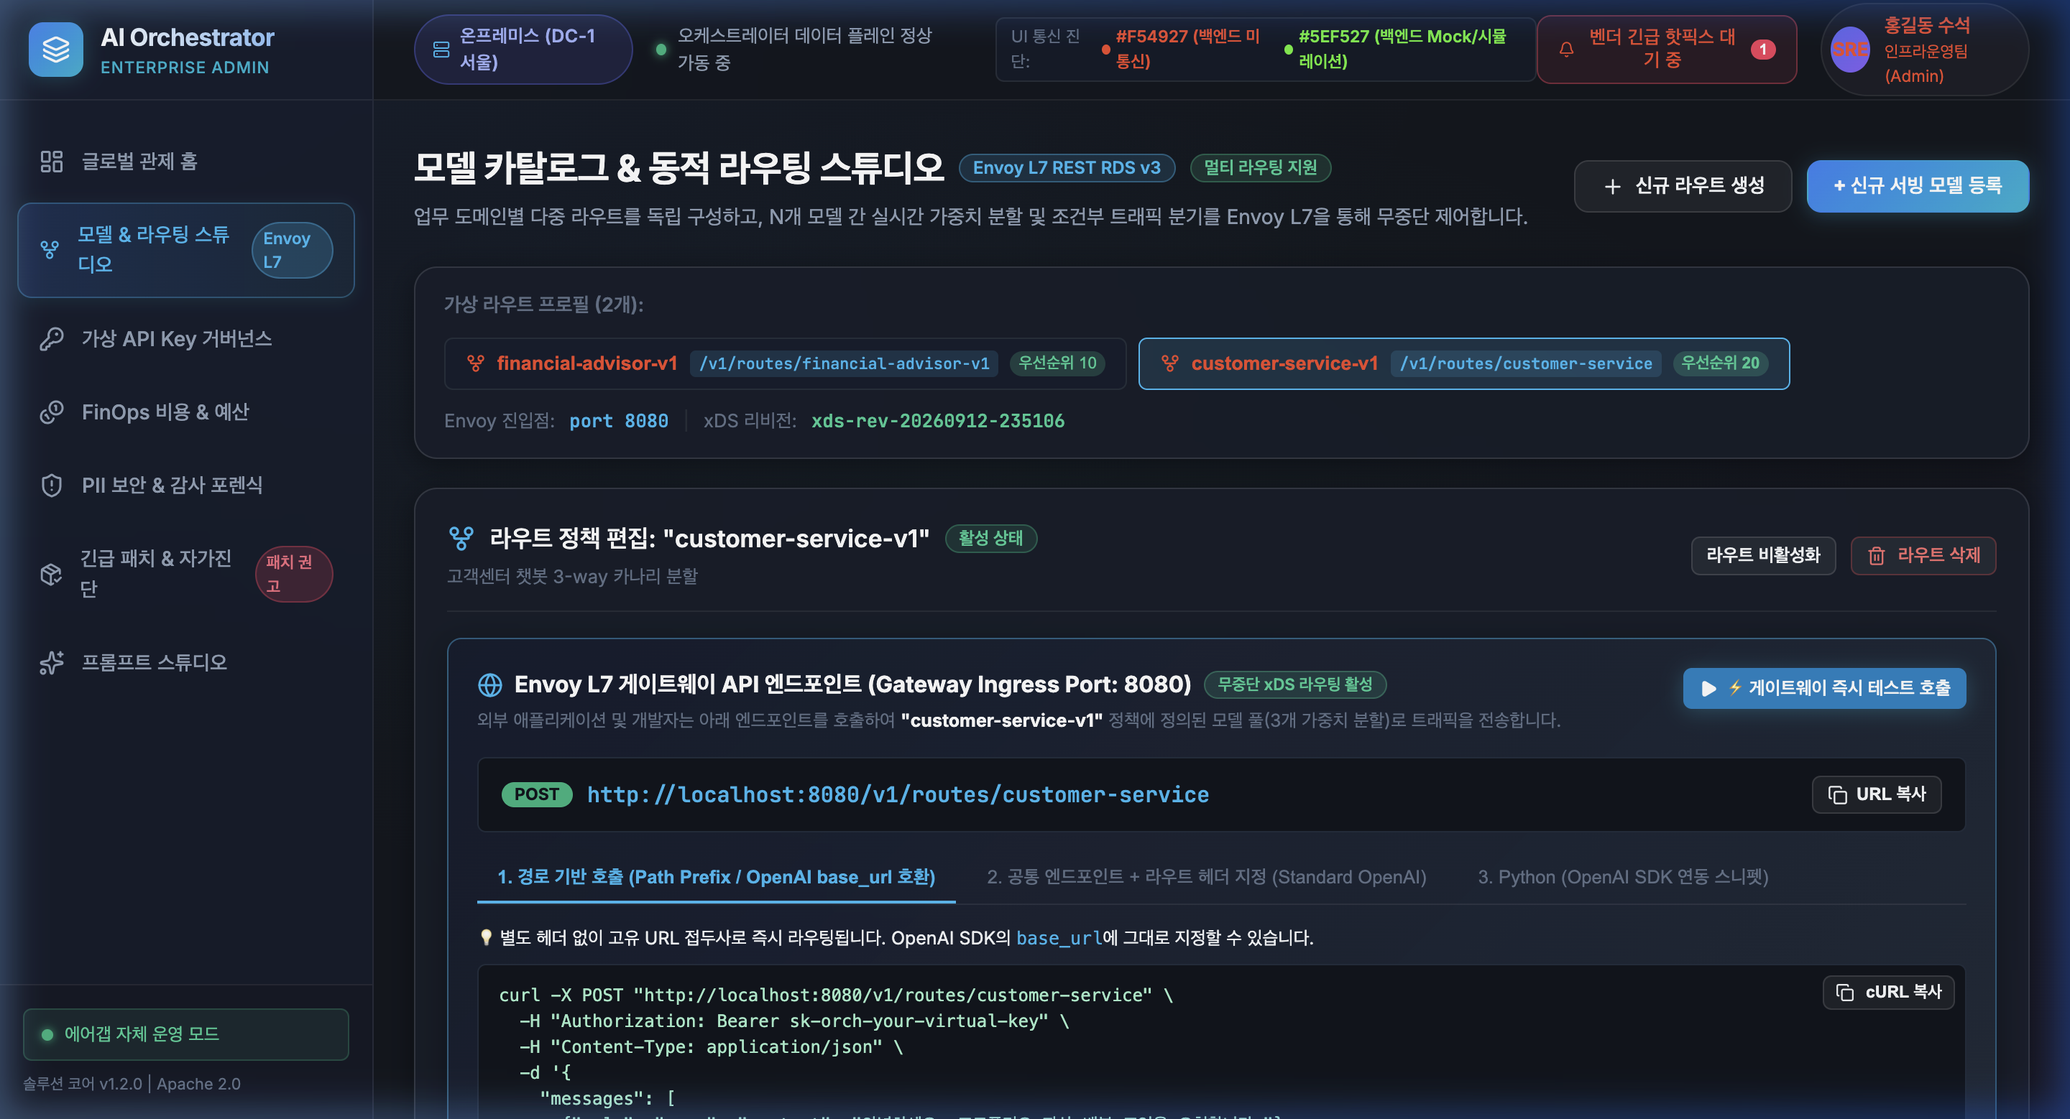
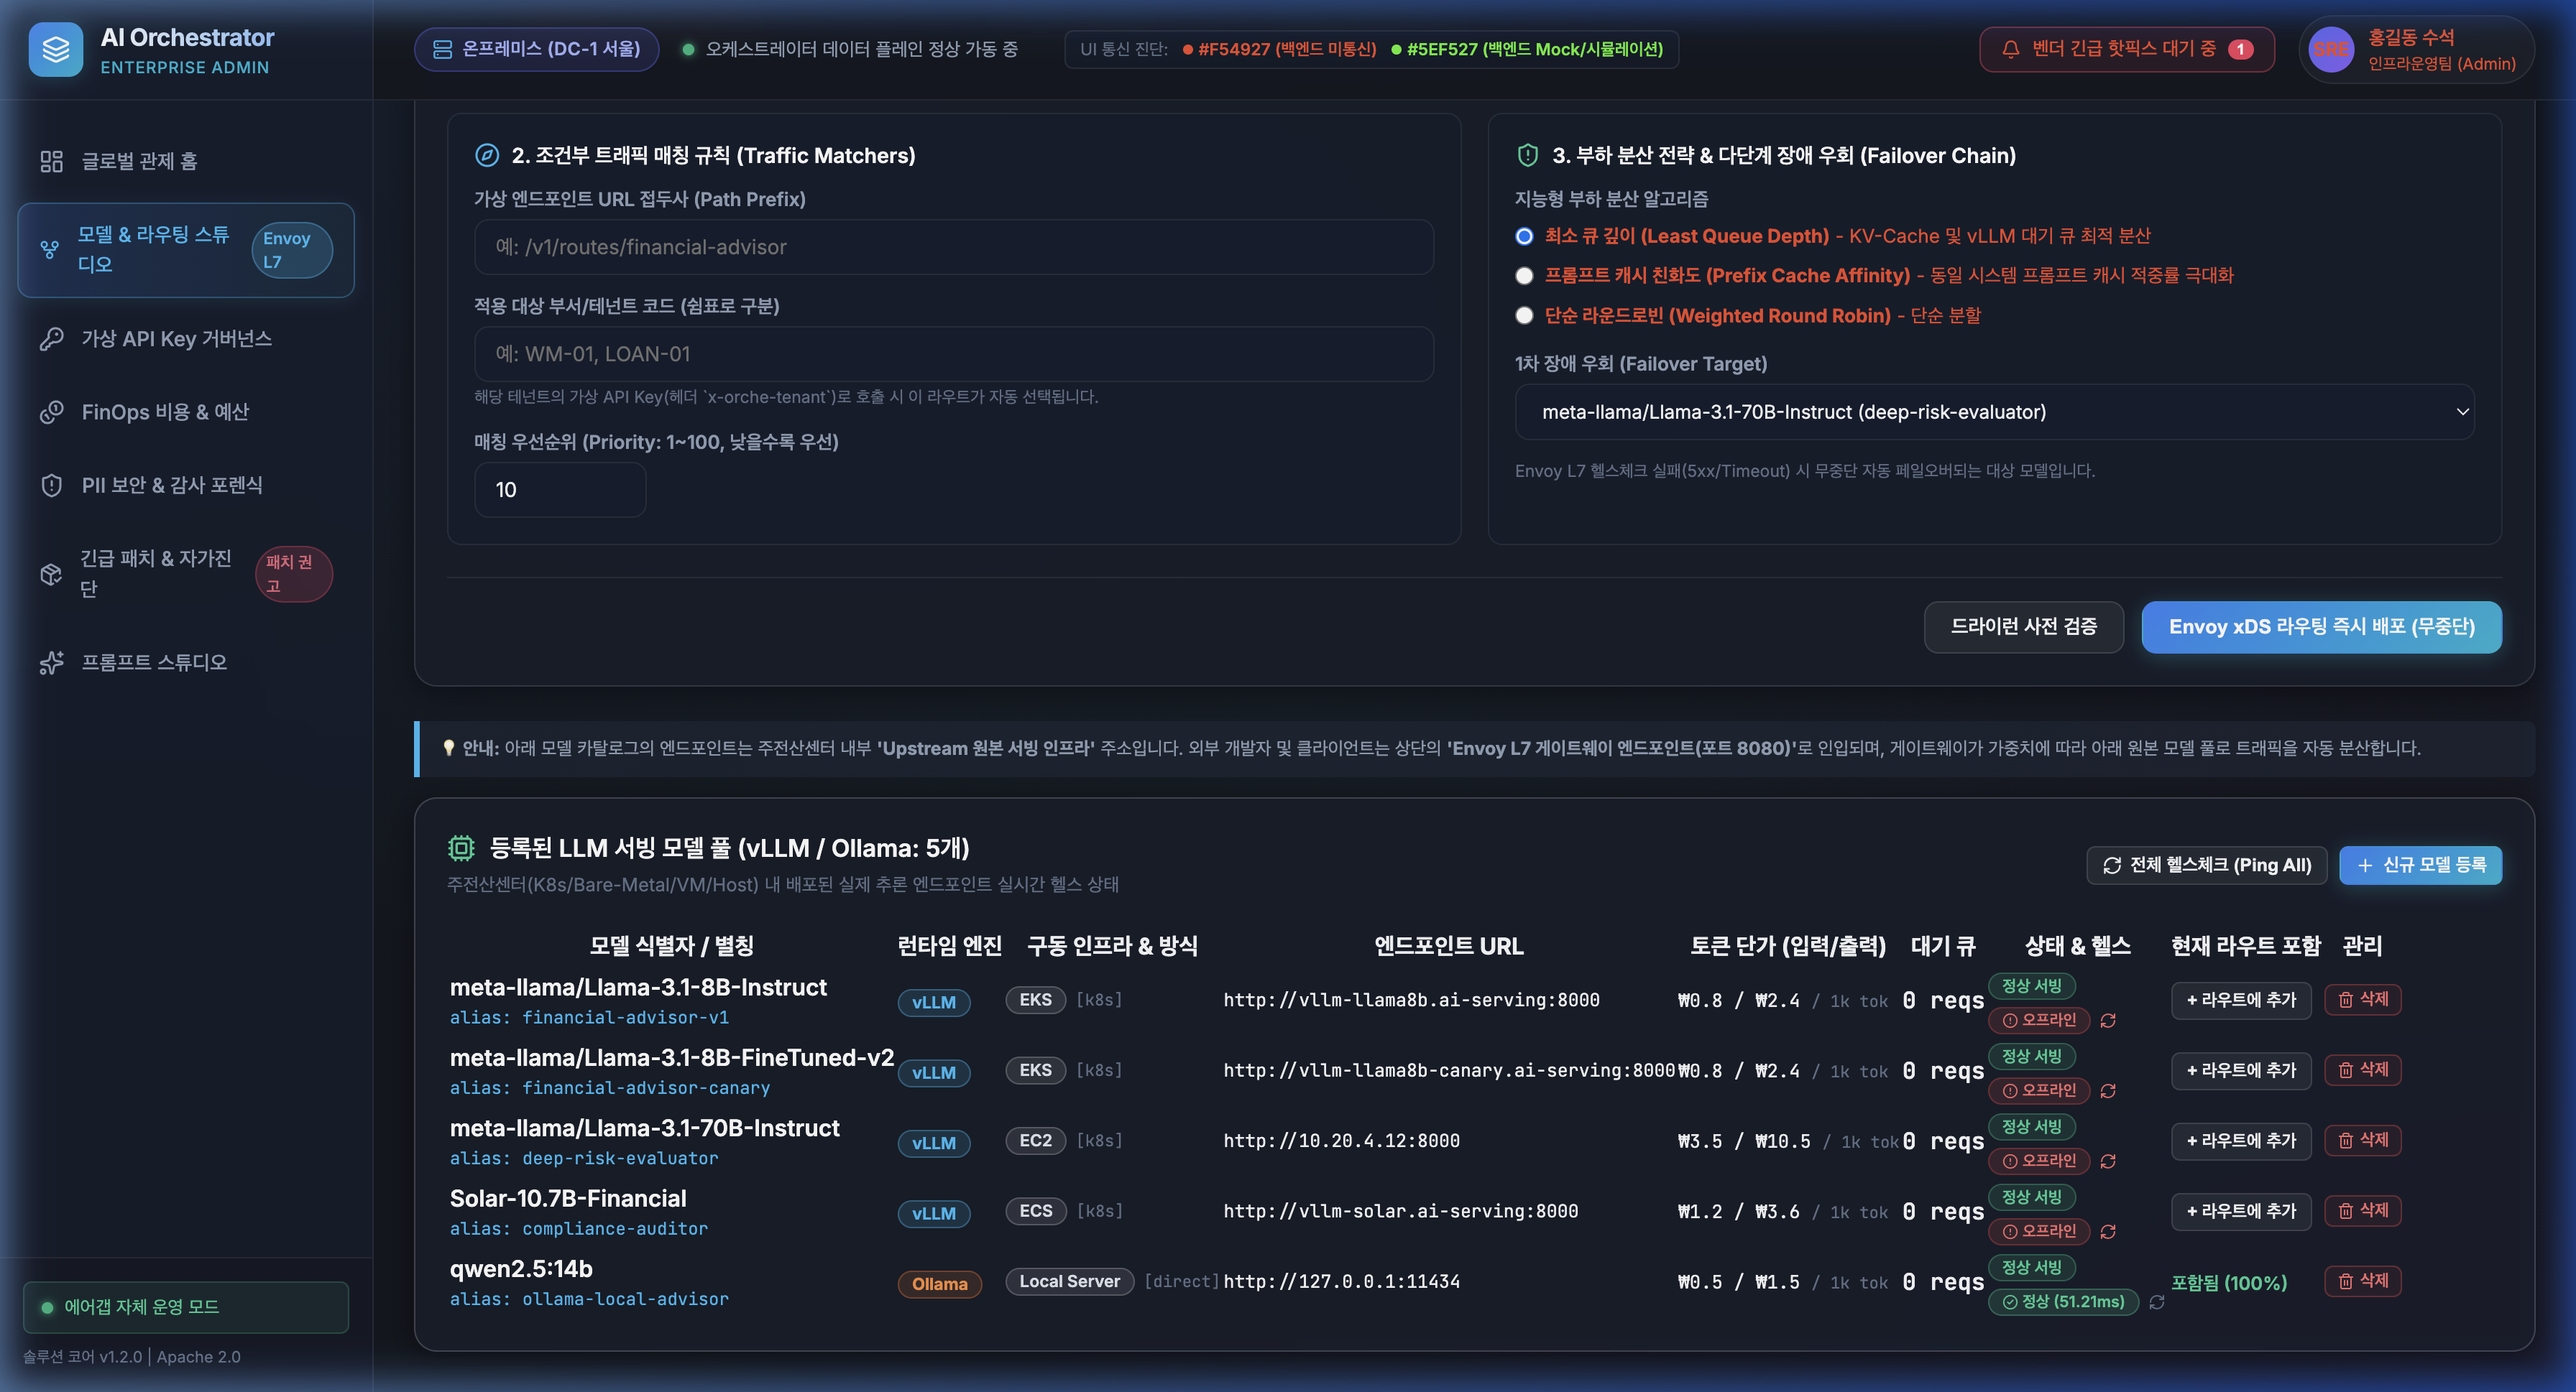
feat: LLM 서빙 모델 풀 삭제(Delete Model) 엔드포인트 및 웹 콘솔 UI 구현

diff --git a/aiorche/frontend/src/components/RoutingTab.jsx b/aiorche/frontend/src/components/RoutingTab.jsx
@@ -605,6 +605,29 @@ export default function RoutingTab({ onNotify }) {
     }
   };
 
+  // Delete Model from Catalog
+  const handleDeleteModel = async (modelId) => {
+    // Check if model is in current route
+    if (currentWeights.some(w => w.model_id === modelId)) {
+      onNotify('ERROR', `모델 '${modelId}'은(는) 현재 활성 라우트 정책에 포함되어 있어 삭제할 수 없습니다. 먼저 라우트에서 제거해 주세요.`);
+      return;
+    }
+
+    if (!window.confirm(`정말 모델 '${modelId}'을(를) 서빙 모델 풀에서 삭제하시겠습니까?\n이 작업은 되돌릴 수 없습니다.`)) {
+      return;
+    }
+
+    try {
+      await apiClient.deleteModel(modelId);
+      const filtered = models.filter(m => m.id !== modelId);
+      setModels(filtered);
+      localStorage.setItem('aiorche_models', JSON.stringify(filtered));
+      onNotify('SUCCESS', `모델 '${modelId}'이(가) 서빙 모델 풀에서 삭제되었습니다.`);
+    } catch (err) {
+      onNotify('ERROR', `모델 삭제 실패: ${err.message}`);
+    }
+  };
+
   const availableModelsToAdd = models.filter(m => !currentWeights.some(w => w.model_id === m.id));
 
   // Gateway Connection URLs & Snippets
@@ -1393,6 +1416,7 @@ print(response.choices[0].message.content)`;
                 <th>대기 큐</th>
                 <th>상태 & 헬스</th>
                 <th>현재 라우트 포함</th>
+                <th style={{ textAlign: 'center' }}>관리</th>
               </tr>
             </thead>
             <tbody>
@@ -1569,6 +1593,26 @@ print(response.choices[0].message.content)`;
                           + 라우트에 추가
                         </button>
                       )}
+                    </td>
+                    <td style={{ textAlign: 'center' }}>
+                      <button
+                        className="btn btn-secondary btn-sm"
+                        onClick={() => handleDeleteModel(m.id)}
+                        style={{
+                          padding: '3px 8px',
+                          color: '#f87171',
+                          borderColor: 'rgba(239, 68, 68, 0.35)',
+                          display: 'inline-flex',
+                          alignItems: 'center',
+                          gap: '4px',
+                          fontSize: '0.72rem',
+                          background: 'rgba(239, 68, 68, 0.08)'
+                        }}
+                        title="서빙 모델 풀에서 영구 삭제"
+                      >
+                        <Trash2 size={12} />
+                        <span>삭제</span>
+                      </button>
                     </td>
                   </tr>
                 );

diff --git a/aiorche/frontend/src/api/client.js b/aiorche/frontend/src/api/client.js
@@ -176,6 +176,17 @@ export const apiClient = {
     return await res.json();
   },
 
+  async deleteModel(modelId, force = false) {
+    const res = await fetch(`${API_BASE_URL}/models/${encodeURIComponent(modelId)}?force=${force}`, {
+      method: 'DELETE'
+    });
+    if (!res.ok) {
+      const err = await res.json().catch(() => ({}));
+      throw new Error(err.detail || '모델 삭제 실패');
+    }
+    return await res.json();
+  },
+
   async checkAllModelsHealth() {
     try {
       const res = await fetch(`${API_BASE_URL}/models/health-check`);

diff --git a/aiorche/backend/app/api/v1/endpoints/models.py b/aiorche/backend/app/api/v1/endpoints/models.py
@@ -7,6 +7,7 @@ from fastapi import APIRouter, Depends, HTTPException, status
 from sqlalchemy.orm import Session
 from app.db.session import get_db
 from app.models.model_catalog import ModelCatalog
+from app.models.routing_policy import RoutingPolicy
 from app.schemas.model_catalog import (
     ModelCatalogCreate,
     ModelCatalogUpdate,
@@ -177,3 +178,38 @@ def update_model(model_id: str, model_in: ModelCatalogUpdate, db: Session = Depe
     db.commit()
     db.refresh(model)
     return model
+
+@router.delete("/{model_id:path}", status_code=status.HTTP_200_OK)
+def delete_model(model_id: str, force: bool = False, db: Session = Depends(get_db)):
+    """Delete a serving model from the catalog (with routing dependency safety check)"""
+    model = db.query(ModelCatalog).filter(ModelCatalog.model_id == model_id).first()
+    if not model:
+        raise HTTPException(
+            status_code=status.HTTP_404_NOT_FOUND,
+            detail=f"Model '{model_id}' not found."
+        )
+
+    # Check if model is currently referenced in any active routing policies
+    if not force:
+        policies = db.query(RoutingPolicy).all()
+        referencing_routes = []
+        for pol in policies:
+            # Check traffic_weights
+            weights = pol.traffic_weights or []
+            for item in weights:
+                if isinstance(item, dict) and item.get("model_id") == model_id:
+                    referencing_routes.append(pol.route_name)
+                    break
+            # Check failover_model_id
+            if pol.failover_model_id == model_id and pol.route_name not in referencing_routes:
+                referencing_routes.append(pol.route_name)
+
+        if referencing_routes:
+            raise HTTPException(
+                status_code=status.HTTP_400_BAD_REQUEST,
+                detail=f"해당 모델은 활성 라우트 정책({', '.join(referencing_routes)})에서 가중치 또는 페일오버 타깃으로 사용 중이므로 삭제할 수 없습니다. 먼저 라우트 설정을 변경해 주세요."
+            )
+
+    db.delete(model)
+    db.commit()
+    return {"status": "success", "message": f"모델 '{model_id}'이(가) 카탈로그에서 성공적으로 삭제되었습니다."}

diff --git a/aiorche/backend/tests/test_routing.py b/aiorche/backend/tests/test_routing.py
@@ -51,6 +51,20 @@ def test_model_catalog_crud():
     assert patch_res.json()["execution_method"] == "k8s"
     assert patch_res.json()["is_active"] is False
 
+    # 5. Delete model (referenced in active route fails with 400)
+    del_fail_res = client.delete("/api/v1/models/meta-llama/Llama-3.1-8B-Instruct")
+    assert del_fail_res.status_code == 400
+    assert "활성 라우트 정책" in del_fail_res.json()["detail"]
+
+    # 6. Delete unreferenced model succeeds
+    del_ok_res = client.delete(f"/api/v1/models/{new_model['model_id']}")
+    assert del_ok_res.status_code == 200
+    assert del_ok_res.json()["status"] == "success"
+
+    # 7. Verify model is gone
+    get_gone_res = client.get(f"/api/v1/models/{new_model['model_id']}")
+    assert get_gone_res.status_code == 404
+
 def test_routing_policy_get_active():
     res = client.get("/api/v1/routing")
     assert res.status_code == 200
